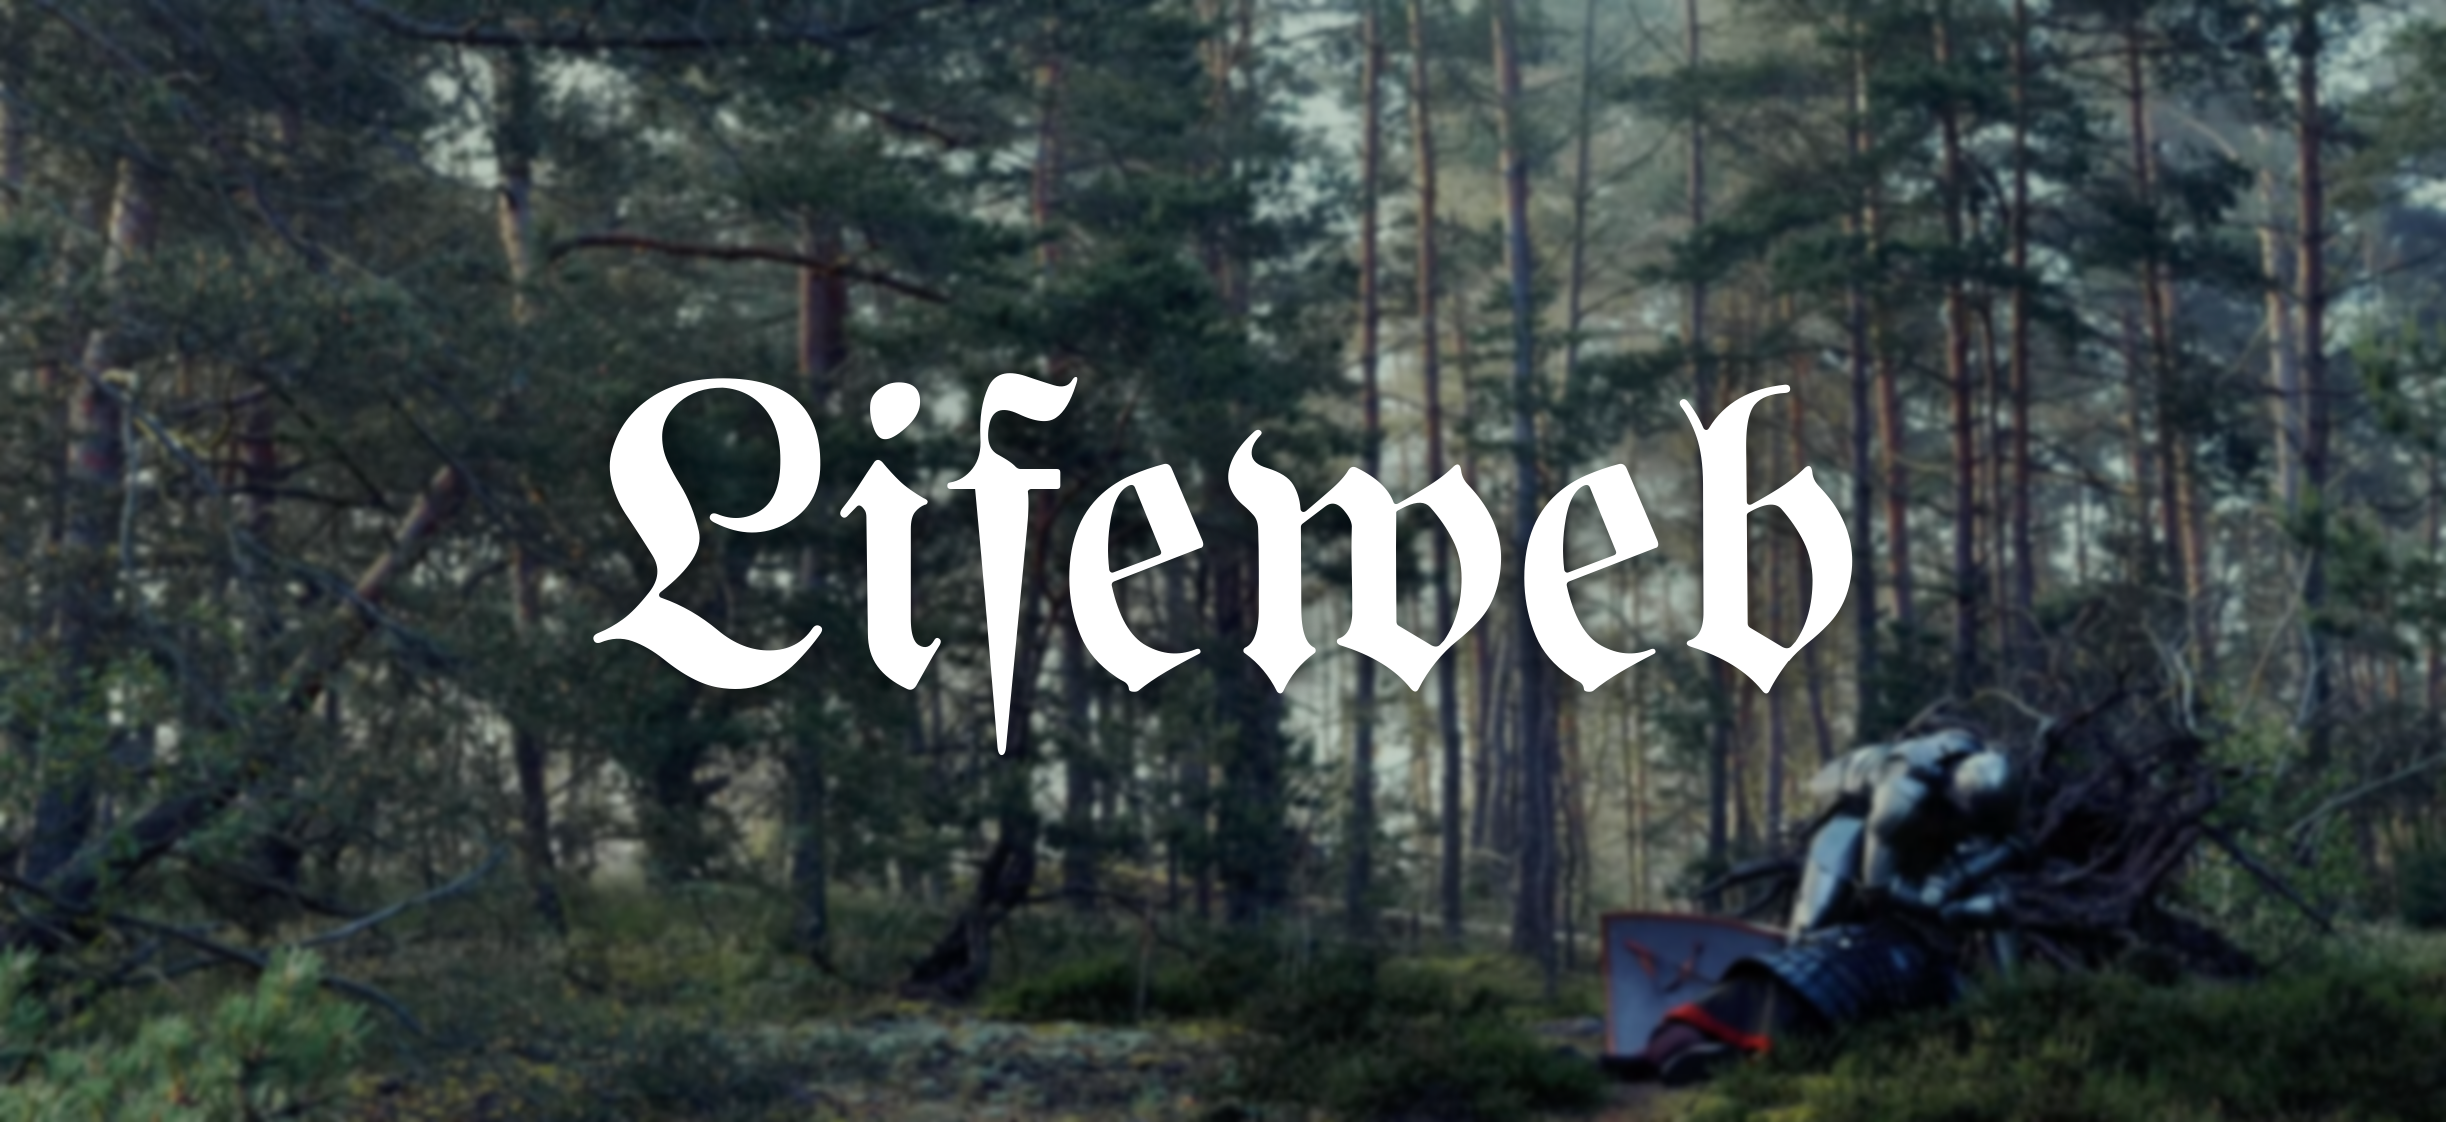
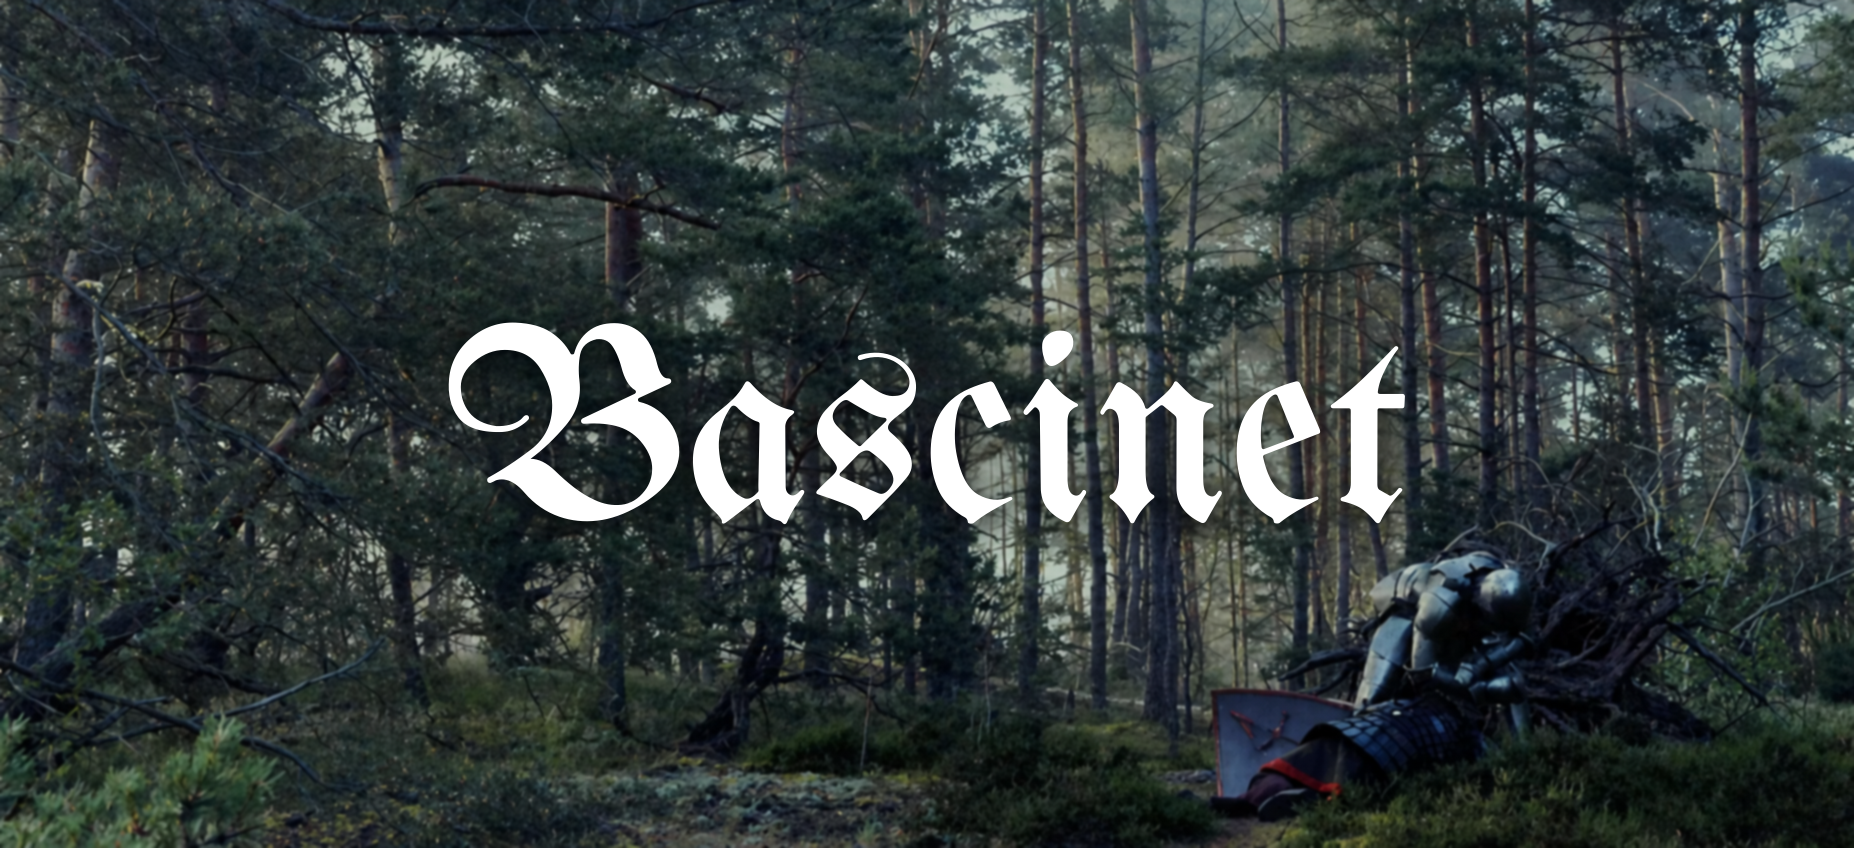
Retitle the project Bascinet, keeping the Lifeweb as lore
The game is now Bascinet. The Lifeweb stays exactly where it was: the Tower
that keeps Ravenheart alive, fed by its people's blood. Only the product
renames, which makes this deliberately not a find-and-replace — of 338
case-insensitive hits, most are lore or npm scope and are left alone.

Three things are frozen on purpose, and CLAUDE.md now says so, because a
`grep -i lifeweb` hit reads as an unfinished rename when it isn't: the
@lifeweb/* npm scope (152 occurrences, and the Railway service is literally
named @lifeweb/bot), the peace-lock/lifeweb repo, and the three Prisma
migration directories whose names are checksummed rows in _prisma_migrations.

Renaming WEBHOOK_NAME is safe despite appearances: both lookups match on the
webhook's owner rather than its name, so the constant is only read at create
time and no existing webhook is orphaned. Its two copies are the gateway/REST
twins of one rule and must stay in sync.

The new #info banner is the same generator over a new background, with the
crop and colour treatment off and the blur halved — so make-banner.py grew
flags for all four and records the exact invocation, since the module
defaults no longer reproduce the committed image.

diff --git a/web/app/layout.js b/web/app/layout.js
@@ -35,8 +35,8 @@ const display = UnifrakturMaguntia({
 });
 
 export const metadata = {
-  title: "Lifeweb",
-  description: "Lifeweb — a barony amid the wasteland.",
+  title: "Bascinet",
+  description: "Bascinet — a barony amid the wasteland.",
 };
 
 // Theme/turn state is live game state fetched per-request, not something
@@ -46,10 +46,10 @@ export const dynamic = "force-dynamic";
 
 export default async function RootLayout({ children }) {
   const turn = await getOpenTurn();
-  // LIFEWEB_THEME pins the whole environment to one theme, which is the only
+  // BASCINET_THEME pins the whole environment to one theme, which is the only
   // way to see "limestone" — no turn phase maps to it. Leave it unset in
   // production so the theme keeps tracking dawn/dusk.
-  const theme = resolveTheme(turn?.phase, process.env.LIFEWEB_THEME);
+  const theme = resolveTheme(turn?.phase, process.env.BASCINET_THEME);
 
   return (
     <html

diff --git a/web/app/(app)/gm/turns/MovePanel.js b/web/app/(app)/gm/turns/MovePanel.js
@@ -24,7 +24,7 @@ const OPPOSED_HELP =
   "Opposed moves affect negatively affect another player. Wait to adjudicate these until all other parties have moved.";
 
 const RESULT_HELP =
-  "Only visible to GMs. Write whatever you'd like. Once you're done, message all affected players (or go to the respective channel and respond as Lifeweb by typing /gm) to communicate the results.";
+  "Only visible to GMs. Write whatever you'd like. Once you're done, message all affected players (or go to the respective channel and respond as Bascinet by typing /gm) to communicate the results.";
 
 const REJECT_HELP = "Deletes the Move and frees up the user's turn. Helpful if the action wasn't notable enough to be a move.";
 

diff --git a/web/app/(app)/gm/players/PlayersTable.js b/web/app/(app)/gm/players/PlayersTable.js
@@ -100,7 +100,7 @@ export default function PlayersTable({ characters, tags = [] }) {
             <input key={id} type="hidden" name="characterId" value={id} />
           ))}
           <label className="field">
-            <span className="field-label">Message ({selected.size} recipient{selected.size === 1 ? "" : "s"}, sent from Lifeweb)</span>
+            <span className="field-label">Message ({selected.size} recipient{selected.size === 1 ? "" : "s"}, sent from Bascinet)</span>
             <textarea name="message" rows={3} required />
           </label>
           <button type="submit" className="btn self-start">

diff --git a/web/app/(app)/gm/messages/[discordUserId]/page.js b/web/app/(app)/gm/messages/[discordUserId]/page.js
@@ -35,7 +35,7 @@ export default async function MessageThreadPage({ params }) {
       <form action={sendDmReply} className="panel flex flex-col gap-3 p-4">
         <input type="hidden" name="discordUserId" value={discordUserId} />
         <label className="field">
-          <span className="field-label">Reply (from Lifeweb)</span>
+          <span className="field-label">Reply (from Bascinet)</span>
           <textarea name="message" rows={3} required />
         </label>
         <SubmitButton className="btn self-start" pendingLabel="Sending…">

diff --git a/bot/src/lib/interactionGuild.js b/bot/src/lib/interactionGuild.js
@@ -3,7 +3,7 @@ const { prisma } = require("@lifeweb/db");
 // Every player-facing command is registered globally with a BotDM context
 // (see bot/src/lib/commands.js), so `interaction.guild` and
 // `interaction.member` are null whenever one is run from the bot's DMs.
-// Lifeweb is single-guild, so the guild is recoverable from the environment —
+// Bascinet is single-guild, so the guild is recoverable from the environment —
 // but no handler should reach for interaction.guild directly, or it works in
 // a channel and throws in a DM.
 //

diff --git a/db/lib/roleIds.js b/db/lib/roleIds.js
@@ -1,7 +1,7 @@
 // Static Discord role IDs, hardcoded rather than env-configured.
 //
 // These are not secrets: a role ID is visible to anyone in the guild, and
-// Lifeweb is a single-guild game, so there is exactly one correct value for
+// Bascinet is a single-guild game, so there is exactly one correct value for
 // each and it will never differ between environments. Keeping them in code
 // means they cannot be half-configured — the failure mode of an env var here
 // was a deploy where the player gate silently locked everyone out or the

diff --git a/web/app/components/HomeScreen.js b/web/app/components/HomeScreen.js
@@ -4,7 +4,7 @@ export default function HomeScreen({ turnLabel }) {
   return (
     <main className="relative z-10 flex h-full flex-col items-center justify-center gap-8 px-6 text-center">
       <div className="flex flex-col items-center">
-        <h1 className="wordmark text-5xl tracking-widest sm:text-6xl">Lifeweb</h1>
+        <h1 className="wordmark text-5xl tracking-widest sm:text-6xl">Bascinet</h1>
         <div className="wordmark-rule my-3" />
         <p className="text-sm tracking-[0.2em] uppercase text-muted">
           {turnLabel}

diff --git a/web/app/(app)/gm/dev/characters/[characterId]/ActionBar.js b/web/app/(app)/gm/dev/characters/[characterId]/ActionBar.js
@@ -310,7 +310,7 @@ export default function ActionBar({
         <Modal title={`Message ${character.name}`} onClose={() => setDialog(null)}>
           <div className="flex flex-col gap-3">
             <label className="field">
-              <span className="field-label">Sent from Lifeweb as a DM</span>
+              <span className="field-label">Sent from Bascinet as a DM</span>
               <textarea rows={4} value={draft} onChange={(e) => setDraft(e.target.value)} />
             </label>
             <FormError>{error}</FormError>

diff --git a/web/app/globals.css b/web/app/globals.css
@@ -138,7 +138,7 @@
 
 /* Limestone — the light-theme backup, kept for comparison rather than wired
    in by phase. It is never what themeForPhase() returns; reach it by setting
-   LIFEWEB_THEME=limestone (see web/app/layout.js). Worth keeping around
+   BASCINET_THEME=limestone (see web/app/layout.js). Worth keeping around
    because its ground->surface separation (1.53) beats either dark theme —
    light themes simply have more luminance headroom to spend.
 

diff --git a/web/lib/turnFormat.js b/web/lib/turnFormat.js
@@ -26,7 +26,7 @@ export function describeTurn(turn) {
 
 // The themes globals.css defines. Both phase themes are underground darks;
 // "limestone" is the light-theme backup and is deliberately NOT reachable from
-// a phase — only via the LIFEWEB_THEME override below.
+// a phase — only via the BASCINET_THEME override below.
 export const THEMES = ["dusk", "dawn", "limestone"];
 
 export function themeForPhase(phase) {

diff --git a/db/lib/discordRest.js b/db/lib/discordRest.js
@@ -318,7 +318,7 @@ async function ensureForumTag(channelId, tagName, emojiName) {
   return updated.available_tags.find((t) => t.name === tagName)?.id ?? null;
 }
 
-const WEBHOOK_NAME = "Lifeweb Tupper";
+const WEBHOOK_NAME = "Bascinet Tupper";
 
 // REST twin of bot/src/lib/proxy.js#fetchOrCreateWebhook — same webhook name
 // and same "reuse the bot's own webhook on this channel, create one only if

diff --git a/bot/src/lib/proxy.js b/bot/src/lib/proxy.js
@@ -4,7 +4,7 @@ const { recordArchiveMessage } = require("@lifeweb/db/lib/archive");
 const { capitalizeSentences } = require("./textCorrection");
 const { resolveChannelContext } = require("./channels");
 
-const WEBHOOK_NAME = "Lifeweb Tupper";
+const WEBHOOK_NAME = "Bascinet Tupper";
 const MAX_RECENT = 500;
 
 const webhookCache = new Map(); // channelId -> { id, token }
